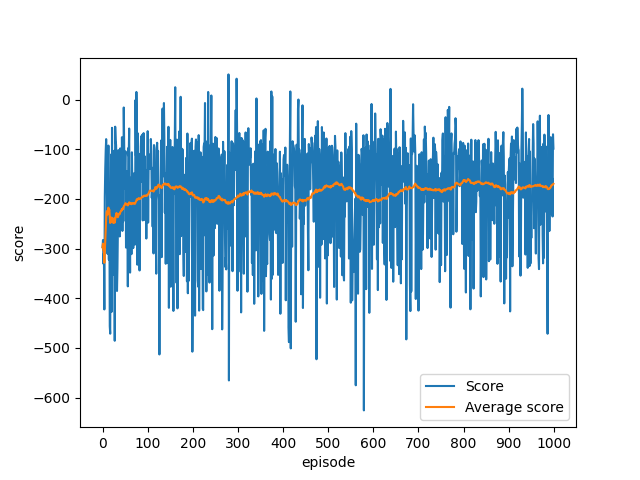
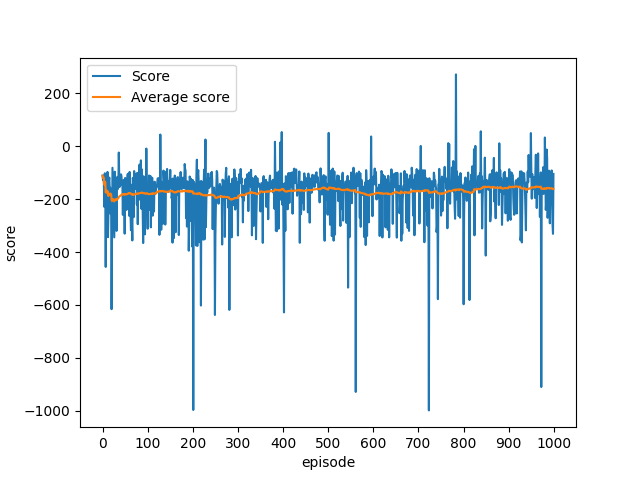
all runs

diff --git a/AS2.2/Agent.py b/AS2.2/Agent.py
@@ -89,7 +89,7 @@ class Agent:
 
                     # --------------- TEST -------------------
 
-        self.plot_values(2, 5, "_temporal_difference")
+        self.plot_values(2, 5, f"_temporal_difference_{discount}")
 
     def sarsa(self, discount: float, learning_rate: float, epsilon: float, epochs: int):
         """
@@ -114,13 +114,8 @@ class Agent:
                 print(state)
                 next_position = self.maze.stepper(self.position, action)
 
-                c_surr_states = self.maze.surrounding_states(state)
-                c_surr_values = self.policy.value_func(c_surr_states, discount)
-
                 next_surr_states = self.maze.surrounding_states(next_position)
-                print('1          ', next_surr_states)
                 next_surr_values = self.policy.value_func(next_surr_states, discount)
-                print('2          ', next_surr_values)
 
                 next_action = self.policy.decide_action_value(next_position, discount, epsilon, next_surr_values)
                 print(next_action)
@@ -138,7 +133,8 @@ class Agent:
                 state = next_position
             self.position = (3, 2)
 
-        self.plot_sarsa_values("SARSA")
+        self.plot_sarsa_values(f"SARSA_{discount}")
+        self.plot_sarsa_directions(f"SARSA_{discount}")
 
     def q_learning(self, discount: float, learning_rate: float, epsilon: float, epochs: int):
         """
@@ -155,9 +151,6 @@ class Agent:
                 action = self.policy.decide_action_value(state, discount, epsilon, self.policy.value_func(self.maze.surrounding_states(state), discount))
                 next_position = self.maze.stepper(self.position, action)
 
-                c_surr_states = self.maze.surrounding_states(state)
-                c_surr_values = self.policy.value_func(c_surr_states, discount)
-
                 next_surr_states = self.maze.surrounding_states(next_position)
                 next_surr_values = self.policy.value_func(next_surr_states, discount)
 
@@ -170,7 +163,8 @@ class Agent:
 
             self.position = (3, 2)
 
-        self.plot_sarsa_values("Q-learning")
+        self.plot_sarsa_values(f"Q-learning_{discount}")
+        self.plot_sarsa_directions(f"Q-learning_{discount}")
 
     def print_iteration(self, iteration):
         """
@@ -193,7 +187,7 @@ class Agent:
 
         values = np.array([np.array(self.maze.surrounding_values_per_coords[key]) for key in self.maze.surrounding_values_per_coords.keys()])
 
-        action_names = ["left", "right", "up", "down"]
+        action_names = ["Up", "Down", "Left", "Right"]
 
         fig, ax = plt.subplots(figsize=(4, 6))  # Adjust the figsize parameter as needed
 
@@ -215,6 +209,46 @@ class Agent:
                             color='w' if values[i, j, 0] < 30 else 'black')  # White text for negative values
 
         plt.savefig(f'../images/AS_{plt_name}_visualization.png')
+        plt.show()
+
+    def plot_sarsa_directions(self, plt_name):
+        # Extract directions and values
+        directions = ["Up", "Down", "Left", "Right"]
+        values = np.zeros((4, 4, 4))
+
+        for i in range(4):
+            for j in range(4):
+                values[i, j, :] = [self.maze.surrounding_values_per_coords[(i, j)][k][0] for k in range(4)]
+
+        # Determine the direction with the highest value for each coordinate
+        max_directions = np.argmax(values, axis=2)
+
+        # Plot the heatmap without borders
+        fig, ax = plt.subplots()
+        ax.imshow(max_directions, cmap='viridis')
+
+        # Hide grid lines
+        ax.set_xticks(np.arange(4) - 0.5, minor=True)
+        ax.set_yticks(np.arange(4) - 0.5, minor=True)
+        ax.grid(which="minor", color="w", linestyle='-', linewidth=2)
+        ax.tick_params(which="minor", size=1)
+
+        # Add labels
+        ax.set_xticks(np.arange(4))
+        ax.set_yticks(np.arange(4))
+        plt.xlabel('X-axis position')
+        plt.ylabel('Y-axis position')
+        plt.title('Highest Value Direction for Each Coordinate')
+
+        # Display the values on the heatmap
+        for i in range(4):
+            for j in range(4):
+                if (i, j) not in self.maze.terminal_states:
+                    ax.text(j, i, directions[max_directions[i, j]], ha='center', va='center', color='w')
+                else:
+                    ax.text(j, i, 'terminal', ha='center', va='center', color='w')
+
+        plt.savefig(f'../images/AS_{plt_name}_directions_visualization.png')
         plt.show()
 
     def plot_values(self, tot_fig_rows, tot_fig_columns, plt_name):

diff --git a/AS2.2/main.py b/AS2.2/main.py
@@ -17,9 +17,9 @@ policy = Policy(maze)
 agent = Agent(start_position, maze, policy, delta_threshold)
 agent.value_iteration()
 
-# agent.temporal_difference(0.5, 1, 10)
+agent.temporal_difference(1, 0.5, 10)
 # agent.temporal_difference(0.5, 0.5, 10)
-agent.sarsa(0.25, 1, 0.1, 20)
-# agent.sarsa(0.25, 0.9, 0.1, 20)
-# agent.q_learning(0.25, 1, 0.1, 50000)
-# agent.q_learning(0.5, 0.9, 0.1, 50000)
+# agent.sarsa(1, 0.25, 0.1, 20)
+# agent.sarsa(0.9, 0.25, 0.1, 20)
+# agent.q_learning(1, 0.25, 0.1, 30000)
+# agent.q_learning(0.9, 0.5, 0.1, 30000)

diff --git a/AS3.1/Agent.py b/AS3.1/Agent.py
@@ -9,11 +9,8 @@ class Agent:
         self.discount = discount
 
     def train(self):
-        # print('hoi')
         states, actions, rewards, next_states, terminated = self.memory.sample()
-        # print(states, 'states', states.shape)
         actions_states = self.policy.model.predict(states)
-        # print(actions_states, 'hier')
         actions_next_states = self.policy.model.predict(next_states)
         q_value = np.copy(actions_states)
 

diff --git a/AS2.2/Policy.py b/AS2.2/Policy.py
@@ -45,7 +45,6 @@ class Policy:
     def decide_action_value(self, state, discount, epsilon, surr_values):
         # x% chance to land in epsilon aka random
         rd_num = round(random.random(), 2)
-        # print(rd_num, 'rd_num')
         if rd_num < epsilon:
             choice = random.choice([0, 1, 2, 3])
             return choice
